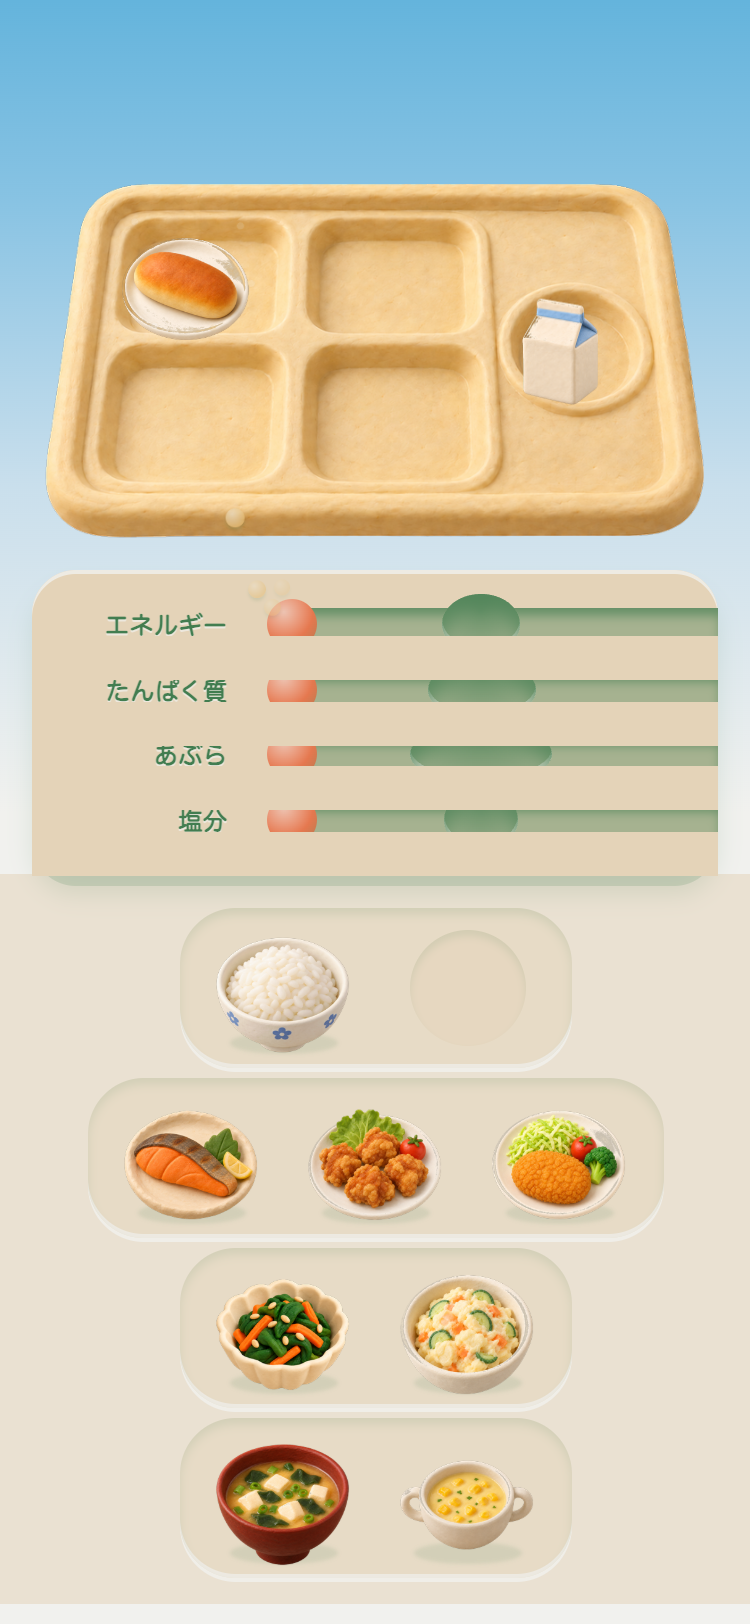
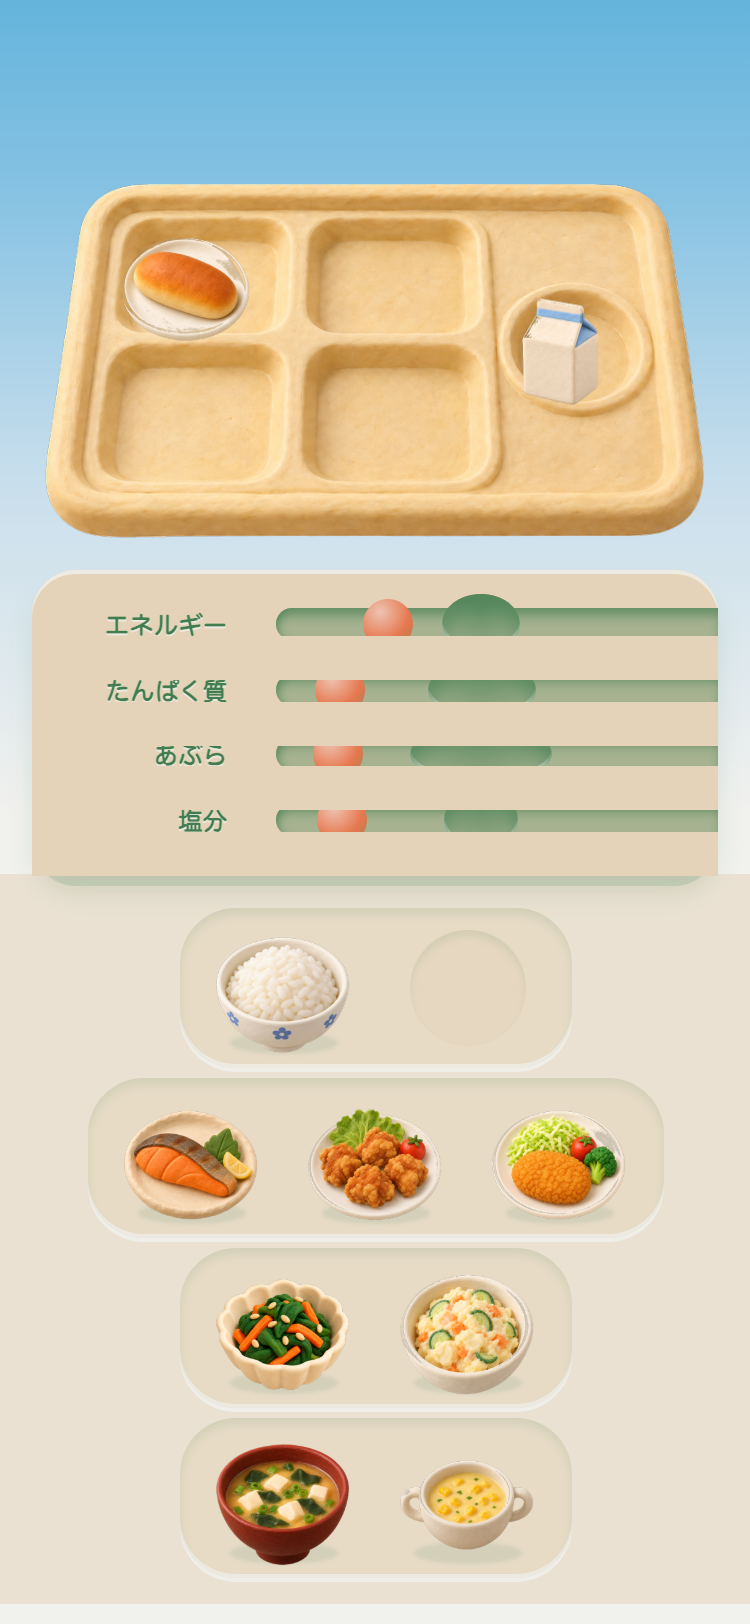
fix(v2): 独立再レビューの blocker 2件（QA層）と high を修正し、変異テストで塞がったことを確認
再レビューは「ハーネスがまだ偽実装を通す」ことを実証した。塞いだ。

QA層（blocker）
- タイマーで勝手に送信するゲーム（＝子どもが観客）を検知できなかった → 送れる状態で3.5秒
  何も触らず、phase が進まないことを検査。M5（1.2秒後に自動送信）を投入して検知を確認
- 数字や正誤表示が「アニメーション中だけ」出る場合、23枚のスクリーンショットの隙間をすり抜けた
  → MutationObserver で走行中に描画された全テキストと aria を蓄積し、それ全体に対して
  「盤面に数字なし」「copy.ts の語彙のみ」を検査。M7（飛行中の点数）M8（演出中の「できた！せいかい！」）
  を投入して検知を確認

実装（high）
- 満杯のトレーで素早く2回タップすると、2回目が古いトレーを見て失敗し、正当な料理を
  「届かなかった」と同じ揺れで拒否していた → タイマー発火時に現在のトレーで再計算し、
  置けないときは何もしない（正当な料理を拒否しない）
- 1品目で「あぶら」「塩分」の玉が数pxしか動かず、動いていないように見えた → 位置は事実のまま、
  粒が当たった玉が必ず跳ねる。4軸すべてが最初の1品に答える（ハーネスで4/4を検査）
- 飛行中・粒の飛行中に学校が出ていた → 動きが収まるまで送り先を出さない
- ラックに画像を当てると、算出した窪みが opacity:0 で無効化される逃げ道があった → 逃げ道を削除

台帳
- 旧タスク v2-lunch-vertical-slice を SUPERSEDED にし、それを止めていた DN-04 を
  新タスクの DN-RACK として引き継いでいることを明記（設計判断の回避ではない）

Changed region(s): [[0.3373, 0.3695, 0.4907, 0.5234], [0.4907, 0.3695, 0.552, 0.4002], [0.3067, 0.3079, 0.3373, 0.3387]]

diff --git a/src/v2/lunch/play/LunchMenuPlay.tsx b/src/v2/lunch/play/LunchMenuPlay.tsx
@@ -28,7 +28,7 @@ import {
 
 export interface LunchMenuPlayProps {
   onCleared: () => void;
-  assets?: { tray?: string; dish?: Record<string, string>; truck?: string; school?: string; rack?: string };
+  assets?: { tray?: string; dish?: Record<string, string>; truck?: string; school?: string };
 }
 
 const FLY_MS = 380;
@@ -62,6 +62,10 @@ export default function LunchMenuPlay({ onCleared, assets }: LunchMenuPlayProps)
   const [flyGo, setFlyGo] = useState(false);
   const [sparks, setSparks] = useState<Spark[]>([]);
   const [motes, setMotes] = useState<Mote[]>([]);
+  /** which beads were just struck by a mote — every axis reacts visibly, even
+   * when the dish moves it only a little, so "this dish moved those four" is
+   * never conveyed by a 2px slide alone */
+  const [struck, setStruck] = useState<Set<Axis>>(() => new Set());
   const [motesGo, setMotesGo] = useState(false);
   const [truck, setTruck] = useState<"away" | "arriving" | "parked">("away");
   /** the trouble is announced once and then gets out of the way */
@@ -80,7 +84,6 @@ export default function LunchMenuPlay({ onCleared, assets }: LunchMenuPlayProps)
   sessionRef.current = s;
   const prevViable = useRef(false);
   const [trayArtOk, setTrayArtOk] = useState(false);
-  const [rackArtOk, setRackArtOk] = useState(false);
   const [schoolArtOk, setSchoolArtOk] = useState(false);
 
   const ev = evaluate(s.tray);
@@ -96,7 +99,9 @@ export default function LunchMenuPlay({ onCleared, assets }: LunchMenuPlayProps)
     return [a, at < b0 ? "low" : at > b1 ? "high" : "good"];
   })) as Record<Axis, Band>;
   const beadsSettled = ev.complete && ev.hasStaple && AXES.every((a) => drawn[a] === "good");
-  const sendable = !sending && beadsSettled && canSend(s);
+  // nothing is offered while a dish or its motes are still in the air: the
+  // picture must have finished settling before the world reacts to it
+  const sendable = !sending && !fly && motes.length === 0 && beadsSettled && canSend(s);
   const dishName = (id: string) => COPY.play.dish[id] ?? COPY.play.dish.unknown;
 
   const fx = (fn: () => void, ms: number) => {
@@ -129,7 +134,11 @@ export default function LunchMenuPlay({ onCleared, assets }: LunchMenuPlayProps)
     setMotesGo(false);
     fx(() => setMotesGo(true), 30); // a timer, not rAF: rAF is throttled in a hidden tab
     // the beads move when the motes reach them, never before
-    AXES.forEach((a, i) => fx(() => setShown((cur) => ({ ...cur, [a]: beadPositions(evaluate(sessionRef.current.tray))[a] })), 30 + i * 70 + MOTE_MS * 0.75));
+    AXES.forEach((a, i) => fx(() => {
+      setShown((cur) => ({ ...cur, [a]: beadPositions(evaluate(sessionRef.current.tray))[a] }));
+      setStruck((cur) => new Set(cur).add(a));
+      fx(() => setStruck((cur) => { const n = new Set(cur); n.delete(a); return n; }), 420);
+    }, 30 + i * 70 + MOTE_MS * 0.75));
     fx(() => { setMotes([]); setMotesGo(false); }, 30 + AXES.length * 70 + MOTE_MS + 120);
   };
   /** no dish to fly from (a removal): the beads simply roll back */
@@ -196,17 +205,26 @@ export default function LunchMenuPlay({ onCleared, assets }: LunchMenuPlayProps)
     const course = DISH_BY_ID[id].course;
     const same = cur.tray.filter((d): d is string => !!d && DISH_BY_ID[d].course === course);
     if (same.length !== 1) { bump(id); return; }
-    const leaving = same[0];
-    const slot = cur.tray.indexOf(leaving);
     // the dish that is making way lifts out first, so the exchange is visible
-    setLeavingSlot(slot);
+    setLeavingSlot(cur.tray.indexOf(same[0]));
     fx(() => {
       setLeavingSlot(null);
-      const r = swap(sessionRef.current, leaving, id);
-      if (!r.ok) { bump(id); return; }
-      sessionRef.current = r.session;
-      setS(r.session);
-      flyDish(id, r.slot, el);
+      // recompute against the tray as it is NOW: a second quick tap must not be
+      // rejected just because the first one had not finished lifting out
+      const now = sessionRef.current;
+      if (now.tray.includes(id) || !now.available[id]) return;
+      const free = now.tray.indexOf(null);
+      if (free >= 0) {
+        const r = place(now, id);
+        if (!r.ok) return;
+        sessionRef.current = r.session; setS(r.session); flyDish(id, r.slot, el);
+        return;
+      }
+      const out = now.tray.filter((d): d is string => !!d && DISH_BY_ID[d].course === DISH_BY_ID[id].course)[0];
+      if (!out) return; // nothing legal to replace — say nothing rather than refuse a good dish
+      const r = swap(now, out, id);
+      if (!r.ok) return;
+      sessionRef.current = r.session; setS(r.session); flyDish(id, r.slot, el);
     }, 260);
   };
 
@@ -320,7 +338,7 @@ export default function LunchMenuPlay({ onCleared, assets }: LunchMenuPlayProps)
           </div>
         </div>
 
-        <GaugeRack ev={ev} shown={shown} drawn={drawn} src={assets?.rack} onArt={setRackArtOk} hasArt={rackArtOk} />
+        <GaugeRack ev={ev} shown={shown} drawn={drawn} struck={struck} />
       </div>
 
       {/* motion layer: the flying dish, its landing burst, and the motes going into the grooves */}
@@ -381,16 +399,15 @@ function beadPositions(ev: Evaluation): Record<Axis, number> {
  * hollow in the middle. A bead that reaches the hollow settles into it; a bead
  * out on the shallow part keeps rocking. Nothing here is a bar or a percentage.
  * Exported for the QA harness. */
-export function GaugeRack({ ev, shown, drawn, src, onArt, hasArt }: {
-  ev: Evaluation; shown: Record<Axis, number>; drawn: Record<Axis, Band>; src?: string; onArt?: (ok: boolean) => void; hasArt?: boolean;
+export function GaugeRack({ ev, shown, drawn, struck }: {
+  ev: Evaluation; shown: Record<Axis, number>; drawn: Record<Axis, Band>; struck?: Set<Axis>;
 }) {
   // while the tray is still being filled the beads only MOVE; nothing is judged,
   // so a child's first dish can never look like a mistake
   const judging = ev.complete;
   const ready = ev.filled > 0;
   return (
-    <div className={`lmp-rack ${hasArt ? "has-art" : ""} ${ready ? "ready" : ""}`} role="group" aria-label={COPY.play.rack}>
-      <Art src={src} className="lmp-rack-art" onState={onArt} fallback={null} />
+    <div className={`lmp-rack ${ready ? "ready" : ""}`} role="group" aria-label={COPY.play.rack}>
       {AXES.map((a) => {
         const pos = shown[a] ?? ev.readings[a].pos;
         return (
@@ -409,7 +426,7 @@ export function GaugeRack({ ev, shown, drawn, src, onArt, hasArt }: {
             <span className="lmp-groove-hollow" />
             <span className="lmp-groove-lip" />
             <i
-              className={`lmp-bead band-${!ready ? "idle" : judging ? drawn[a] : "filling"}`}
+              className={`lmp-bead band-${!ready ? "idle" : judging ? drawn[a] : "filling"} ${struck?.has(a) ? "struck" : ""}`}
               data-bead={a}
               style={{ left: `${GROOVE.x0 + (GROOVE.x1 - GROOVE.x0) * pos}%` }}
               role="img"

diff --git a/src/v2/lunch/play/lunchMenuPlay.css b/src/v2/lunch/play/lunchMenuPlay.css
@@ -166,10 +166,10 @@
 .lmp-slot.fixed .lmp-dish-art { height: 150%; }
 
 /* ── the counting rack: four channels carved into one block ──
-   The bead travels 38%..93% of the rack (GROOVE in LunchMenuPlay.tsx). The good
-   band is the middle 41.7% of that travel (lunchMenuLogic TRACK = the band padded
-   by 0.7x on each side), so the hollow spans 38+55*0.2917 = 54.0% and is
-   55*0.4167 = 22.9% wide. If TRACK or GROOVE changes, these change with it.
+   The bead travels GROOVE.x0..GROOVE.x1 of the rack. The hollow's position and
+   width are NOT written here: they arrive per axis as --hollow-left /
+   --hollow-width, computed from the model's own BAND and TRACK, so the drawn
+   hole and the rule can never drift apart.
 
    The bead must read as being INSIDE the channel, never as a knob sitting on a
    slider. That is done with a near lip (.lmp-groove-lip) drawn OVER the bead's
@@ -185,8 +185,6 @@
               0 10px 12px color-mix(in srgb, var(--v2-deep-green) 14%, transparent),
               inset 0 2px 0 color-mix(in srgb, var(--v2-warm-cream) 80%, transparent);
 }
-.lmp-rack.has-art { background: none; box-shadow: none; }
-.lmp-rack-art { position: absolute; inset: 0; width: 100%; height: 100%; object-fit: contain; }
 
 .lmp-groove { position: absolute; left: 0; right: 0; height: 30px; margin-top: -15px; display: block; }
 .lmp-groove-name {
@@ -237,7 +235,6 @@
   background: var(--v2-warm-beige);
   z-index: 2;
 }
-.lmp-rack.has-art .lmp-groove-track, .lmp-rack.has-art .lmp-groove-hollow, .lmp-rack.has-art .lmp-groove-lip { opacity: 0; }
 
 /* One clay bead per channel. It is ALWAYS the same bead — the difference between
    "resting in the hollow" and "stuck on the shallow part" is how deep it sits and
@@ -408,6 +405,7 @@
 @keyframes lmp-settle { 0% { transform: translateY(-4px); } 45% { transform: translateY(5px) scale(0.985); } 100% { transform: translateY(-4px); } }
 @keyframes lmp-deliver { 0% { transform: translateY(-4px); } 22% { transform: translateY(7px) scale(0.98); } 100% { transform: translateY(-104px) scale(0.42); opacity: 0.35; } }
 @keyframes lmp-spark { from { transform: rotate(var(--a)) translateX(6px) scale(1); opacity: 1; } to { transform: rotate(var(--a)) translateX(40px) scale(0.3); opacity: 0; } }
+@keyframes lmp-struck { 0% { transform: translateY(0) scale(1); } 35% { transform: translateY(-7px) scale(1.16); } 100% { transform: translateY(0) scale(1); } }
 @keyframes lmp-rock { 0%, 100% { transform: translateY(-4px) rotate(-8deg); } 50% { transform: translateY(-6px) rotate(8deg); } }
 @keyframes lmp-await { 0%, 100% { opacity: 0.18; transform: scale(0.82); } 50% { opacity: 0.5; transform: scale(1); } }
 @keyframes lmp-leave { to { transform: translateY(-16px) scale(0.7); opacity: 0; } }
@@ -418,7 +416,7 @@
 @media (prefers-reduced-motion: reduce) {
   .lmp-cand.invite, .lmp-shelf.wanted .lmp-cand, .lmp-school.ready, .lmp-slot.empty::after, .lmp-slot.pop, .lmp-slot.related .lmp-dish, .lmp-slot.related .lmp-dish-art,
   .lmp-truck.st-arriving, .lmp.is-delivering .lmp-tray, .lmp.is-settled .lmp-tray, .lmp-tray.can-send, .lmp-tray.can-send::after, .lmp-spark, .lmp-bead.band-low,
-  .lmp-bead.band-high, .lmp-trouble, .lmp-cand.shake { animation: none; }
+  .lmp-bead.band-high, .lmp-bead.struck, .lmp-trouble, .lmp-cand.shake { animation: none; }
   .lmp-fly, .lmp-mote, .lmp-bead, .lmp-truck { transition: none; }
   .lmp.is-delivering .lmp-tray { opacity: 0.55; }
 }

diff --git a/factory/state/blocked-queue.md b/factory/state/blocked-queue.md
@@ -1,5 +1,5 @@
 <!-- GENERATED FILE — DO NOT EDIT BY HAND. -->
-<!-- Regenerate with: node factory/harness/task-state.mjs list --status BLOCKED,DESIGN_BLOCKED,HUMAN_DECISION_REQUIRED --markdown > factory/state/blocked-queue.md -->
+<!-- Regenerate with: node factory/harness/task-state.mjs list --status BLOCKED,HUMAN_DECISION_REQUIRED,DESIGN_BLOCKED --markdown > factory/state/blocked-queue.md -->
 
 # Blocked Queue（自動生成）
 
@@ -8,10 +8,10 @@
 変える（`block` / `set-status` / `reset-iteration`）。
 
 ```
-node factory/harness/task-state.mjs list --status BLOCKED,DESIGN_BLOCKED,HUMAN_DECISION_REQUIRED --markdown > factory/state/blocked-queue.md
+node factory/harness/task-state.mjs list --status BLOCKED,HUMAN_DECISION_REQUIRED,DESIGN_BLOCKED --markdown > factory/state/blocked-queue.md
 ```
 
-生成時刻: 2026-09-21T13:29:36.176Z / 対象 8 件
+生成時刻: 2026-09-21T13:41:36.415Z / 対象 7 件
 
 `BLOCKED` / `HUMAN_DECISION_REQUIRED` は Human Decision が下りるまで
 Continuous Product Loop から自動で再着手しない。`DESIGN_BLOCKED` は
@@ -27,6 +27,5 @@ Continuous Product Loop から自動で再着手しない。`DESIGN_BLOCKED` は
 | q1-improve-power | BLOCKED | game-content | Q1 First-Play Standard V1 Gate F/HONEST OUTCOME（表示と実際の判定の矛盾）に該当し続け、既定のAuto Repair上限（1回）を超過。表示ロジック設計の人間判断が必要 | - | 2026-09-07 |
 | q1-improve-safety-plan | BLOCKED | game-content | Q1 First-Play Standard V1 Gate C/D（月組の配慮情報がゲーム内のどの役割とも因果的に結びつかない）に該当し続け、既定のAuto Repair上限（1回）を超過。新しい役割/仕組みの追加を要するゲームデザイン人間判断が必要 | - | 2026-09-07 |
 | q1-improve-timetable | BLOCKED | game-content | After 1 auto-repair (repair_count=1, cap reached), 0 blockers remain but 1 genuine HIGH per Q1 First-Play Standard V1 Gate C/D (explicitly on the BLOCKER-adjacent list: 'can clear without using C'): from the declared initial (all-5-acts, already-overflowing) lineup, removing ANY SINGLE arbitrary optional act (no reordering, no reading the changeover rule card, no understanding of stage-setup grouping) always succeeds -- round4-review's own arithmetic confirms all 5 single-act cuts (with the untouched declared order) finish under the 13:40 deadline. This is a genuine, non-overridable content-independent shortcut: a first-time player can win by deleting literally any one row without ever engaging with the job-specific C (changeover/setup-type reasoning) the game exists to teach. Fixing this requires either a further numeric rebalance (harder to get right without ALSO reopening the 'no ordering ever fits' failure mode from round 1, given only 5 acts/2 setup categories to work with) or a structural change (e.g. requiring an explicit reorder step, or making at least one arbitrary single-cut also fail) -- both are real game-design judgment calls beyond this task's already-used 1 auto-repair. | - | 2026-09-07 |
-| v2-lunch-vertical-slice | BLOCKED | game-content | 2026-09-21 PLAY UI rebuilt after GPT Visual Review. Codex impl review r4 = FAIL 64 (0 blockers; 2 high are the TEMP world/reveal/seed screens = Design lane, not code); mediums fixed (flight timers seq-guarded, school control hidden from AT, harness write-free + real per-rule witnesses). Independent in-context Art QA of state 3 (first status cues) = FAIL 64/69 x4: a first-time child cannot infer the state from the still image → DN-04 cue form needs the Design Owner (GPT). Waiting on GPT design + Human approval; Ver.1/main/PUBLIC untouched. | - | 2026-09-21 |
 | ver1-freeze-tag-vs-main-drift | HUMAN_DECISION_REQUIRED | factory-integrity | main が凍結タグ ver1-archive-2026-09-20 から Ver.1 の 83 ファイル分ずれている（タグは main の祖先ではない）。凍結ガード check:ver1-freeze は作業ツリーをタグと比較するため、タグ基準のブランチでは PASS するが、そのブランチを main へマージすると main 側の Ver.1 改善（f71d042 / 3df51c8 / 805977e / acdf316 / 49dcf4c / 1847d29 系）と衝突・巻き戻りが起きうる。どちらを Ver.1 の正とするか（タグを打ち直すか、main を正として凍結基準を更新するか）は Human 判断。2026-09-21 の栄養教諭スライス作業中に発見。当該スライス自体は Ver.1 パスを一切変更していない | - | 2026-09-21 |
 
